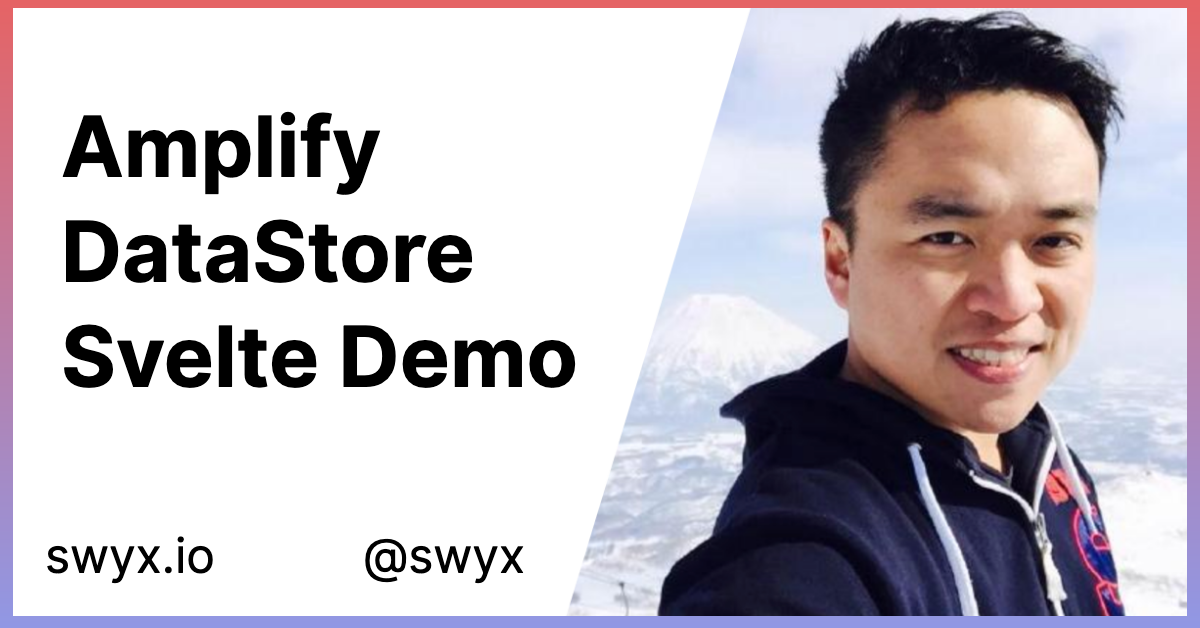
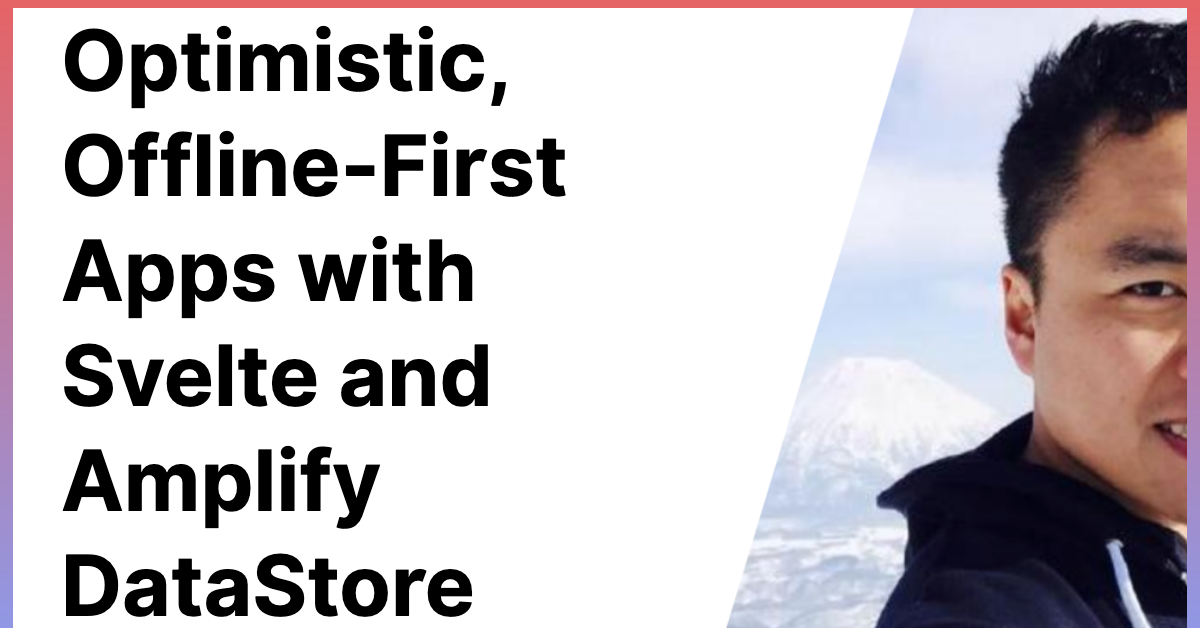
datastore post

diff --git a/content/writing/technical/svelte/svelte-datastore.md b/content/writing/technical/svelte/svelte-datastore.md
@@ -1,14 +1,21 @@
 ---
-title: Amplify DataStore Svelte Demo
+title: Optimistic, Offline-First Apps with Svelte and Amplify DataStore
 slug: svelte-amplify-datastore
 categories: ['Tech', 'Svelte']
 description: This is my attempt adapting an Amplify DataStore tutorial to Svelte
 date: 2020-01-23
 ---
 
-This is a followup to [Writing an Authentication Store in Svelte](https://www.swyx.io/writing/svelte-auth).
+**Offline-first apps and Optimistic UI are essentially the same thing**. Given a well defined backend contract (like GraphQL), we can move a lot of this desirable functionality into a reusable frontend-framework-agnostic "data framework" that handles all this so the developer doesn't have to.
 
-Now that I have a nice auth wrapper in Svelte, I can actually start playing around with the DataStore, as [per the React tutorial](https://medium.com/open-graphql/create-a-multiuser-graphql-crud-l-app-in-5-minutes-with-the-amplify-datastore-902764f27404). I had already set up the model and the codegen per its instructions, and the remaining task was to wire up DataStore to do basic CRUD.
+This is why I am interested in DataStore. I wrote [Optimistic, Offline-first apps using serverless functions and GraphQL](https://twitter.com/swyx/status/1108663969466572800) in a private gist a year ago, and I believe that DataStore is the closest attempt at a framework for this since [Meteor](https://docs.meteor.com/api/collections.html) and [PouchDB](https://pouchdb.com/).
+
+This blogpost is a two-parter. 
+
+- Part 1 is a How-To for hooking up Svelte to DataStore. 
+- Part 2 is a republishing of my musings on why this is so important.
+
+## Table of Contents
 
 ## Bottom Line Up Front
 
@@ -18,7 +25,13 @@ and the deployed demo here: https://d1tdmagl19vwso.cloudfront.net/
 
 Concurrent Session CRUD seems to have a bug right now, filed at: https://github.com/aws-amplify/amplify-js/issues/4765
 
-## Wiring up the DataStore
+## Part 1 - Svelte + DataStore
+
+### Wiring up the DataStore
+
+This is a followup to [Writing an Authentication Store in Svelte](https://www.swyx.io/writing/svelte-auth).
+
+Now that I have a nice auth wrapper in Svelte, I can actually start playing around with the DataStore, as [per the React tutorial](https://medium.com/open-graphql/create-a-multiuser-graphql-crud-l-app-in-5-minutes-with-the-amplify-datastore-902764f27404). I had already set up the model and the codegen per its instructions, and the remaining task was to wire up DataStore to do basic CRUD.
 
 The tutorial example colocates the DataStore logic with component logic. This is nice and short but sometimes you might wish to move it out into an app-level state. I was tempted by the idea of having a "Amplify DataStore Svelte Store" just like the much-maligned [AWS Systems Manager Session Manager](https://twitter.com/quinnypig/status/1166847095736807424). But it is extra complexity so I discarded the idea.
 
@@ -66,7 +79,7 @@ Easy peasy! now let's actually grab some data from the store when the component 
 
 We don't technically have to wrap DataStore in functions, but it can make the code a lot more readable and abstract implementation from the actual domain.
 
-## CRUD wrappers
+### CRUD wrappers
 
 Similarly, you can write simple event handlers that wrap around the basic DataStore operations:
 
@@ -92,7 +105,7 @@ Similarly, you can write simple event handlers that wrap around the basic DataSt
 </script>
 ```
 
-## Display Modes
+### Display Modes
 
 The original demo used a set of Boolean states to manage what was displaying on screen:
 
@@ -110,7 +123,7 @@ This can result in weird states because it relies on the developer correctly res
 
 and you are free to just set displayMode once and be sure that your UI will rerender as intended. Instead of 2x2x2 = 8 possible states, you get 3 and only 3. I did a small version of this with [the auth screen](https://www.swyx.io/writing/svelte-auth) as well.
 
-## Putting them together
+### Putting them together
 
 We can now wire up the CRUD wrappers and Display Modes together to create a full Svelte clone of the DataStore example:
 
@@ -223,5 +236,70 @@ We can now wire up the CRUD wrappers and Display Modes together to create a full
 
 You can see the source: https://github.com/sw-yx/svelte-amplify-datastore-demo and the deployed demo here: https://d1tdmagl19vwso.cloudfront.net/
 
-- Try going offline, editing, and going back online again.
+- Try going offline, editing, and going back online again. You **do not lose data** and it is always fast because you're writing to a local store first.
 - Concurrent Session CRUD seems to have a bug right now, filed at: https://github.com/aws-amplify/amplify-js/issues/4765
+
+## Part 2 - Why this is Important
+
+I wrote [Optimistic, Offline-first apps using serverless functions and GraphQL](https://twitter.com/swyx/status/1108663969466572800) in a private gist a year ago, and I believe that DataStore is the closest attempt at a framework for this since Meteor and [PouchDB](https://pouchdb.com/). ([Eric Vicenti](https://twitter.com/EricVicenti) also has a more nascent project, Aven Cloud), and I have yet to confirm if Firebase's SDK actually does this as well.
+
+The main realization is that Offline-first and Optimistic UI are essentially the same thing, and given a well defined backend contract (like GraphQL), we can move a lot of this desirable functionality into a reusable frontend-framework-agnostic "data framework" that handles all this so the developer doesn't have to.
+
+### Optimistic Apps
+
+In a world where API latency is unpredictable, the way to make user interactions seem instant is essentially by lying to the user. Most implementations of optimistic updates work like this:
+
+- duplicate what the result of the interaction would be in clientside code, while sending off the interaction to the server.
+- (optional) If this succeeds, the legitimate result may replace the clientside simulated result
+- If this fails, a notification is shown and the result is reverted.
+
+Pulling this off well is tremendously hard to do:
+
+- Design considerations of whether to make it clear the optimistic result is not final, and how to revert on failure
+- Authentication may expire, or APIs may hit other limits
+- Properly keeping the rest of the app in sync that may need to know about this update
+- Firing off multiple interactions that depend on each other, where some may fail and some may succeed, possibly arriving at the API out of sequence.
+- State changes on the serverside that may impact the results of user's interaction (for example, from other users)
+
+```
+Paradigm 1: Client <-> Server
+```
+
+Against the sole benefit of "feeling instant", the engineering challenge of coordinating all these cases may often kill the goal.
+
+### Offline-first
+
+A constraint that can simplify the design and engineering of Optimistic UI is the idea of Offline-first apps. This concept is still very new and not that popular with webapps, and traditionally has more to do with local storage and manipulation of data (and subsequent syncing). The usage of service workers and IndexedDB to do this gives this concept a lot of overlap with Progressive Web Apps.
+
+Here the challenge is to download some subset of data that is likely to be useful, as well as being able to locally operate on that data, while being able to sync back and forth with the data store.
+
+However, simply having an explicit layer to control syncing on one side (facing the server) and updates on the other (facing the client) with explicit global knowledge of whether we are in online or offline state can make the programming model a lot clearer.
+
+```
+Paradigm 2: Client <-> IndexedDB + Service Worker <-> AppSync
+```
+
+### GraphQL as Contract
+
+One way to dramatically lock down the surface area of REST endpoints is to only communicate back and forth between client and service worker and server with GraphQL. On the clientside, DataStore exposes a constrained ORM for this purpose, which gets translated to GraphQL queries for AppSync.
+
+```
+Paradigm 3: Client <- DataStore queries -> IndexedDB + Service Worker <- GraphQL -> AppSync
+```
+
+### Conflict resolution
+
+Of course all this is nice until you have multiple people editing the same fields on a database. The nice word for this is "collaboration", but to devs the technical term is "clusterfuck". 
+
+[Commutative operations](https://sciencing.com/associative-commutative-property-of-addition-multiplication-with-examples-13712459.html) are still fine. Order doesn't matter.
+
+But so many interesting things happen when order matters. The simplest strategy is "Last-Write-Wins". But sometimes you want to merge complex objects. And also you should have a way to not discard data irretrievably for dropped updates.
+
+I haven't done a whole lot of thining here, to be brutally honest. I just know it's hard and I rather hand it over to a framework unless I absolutely have to dig into it. More reading from smart people:
+
+- [DataStore docs on their Conflict Detection](https://docs.aws.amazon.com/appsync/latest/devguide/conflict-detection-and-sync.html)
+- [Richard Threlkeld - AppSync/DataStore session at Re:invent 2019](https://www.youtube.com/watch?v=KcYl6_We0EU&list=WL&index=4&t=5s)
+- [Richard on more important nuances](https://twitter.com/undef_obj/status/1213034443759243264)
+- [James Long - CRDTs for Mortals](https://twitter.com/swyx/status/1215631885239492610)
+- [Andrew Herron - To OT or CRDT, that is the question](https://www.tiny.cloud/blog/real-time-collaboration-ot-vs-crdt/)
+- what else is required reading? [please let me know.](https://twitter.com/swyx)
